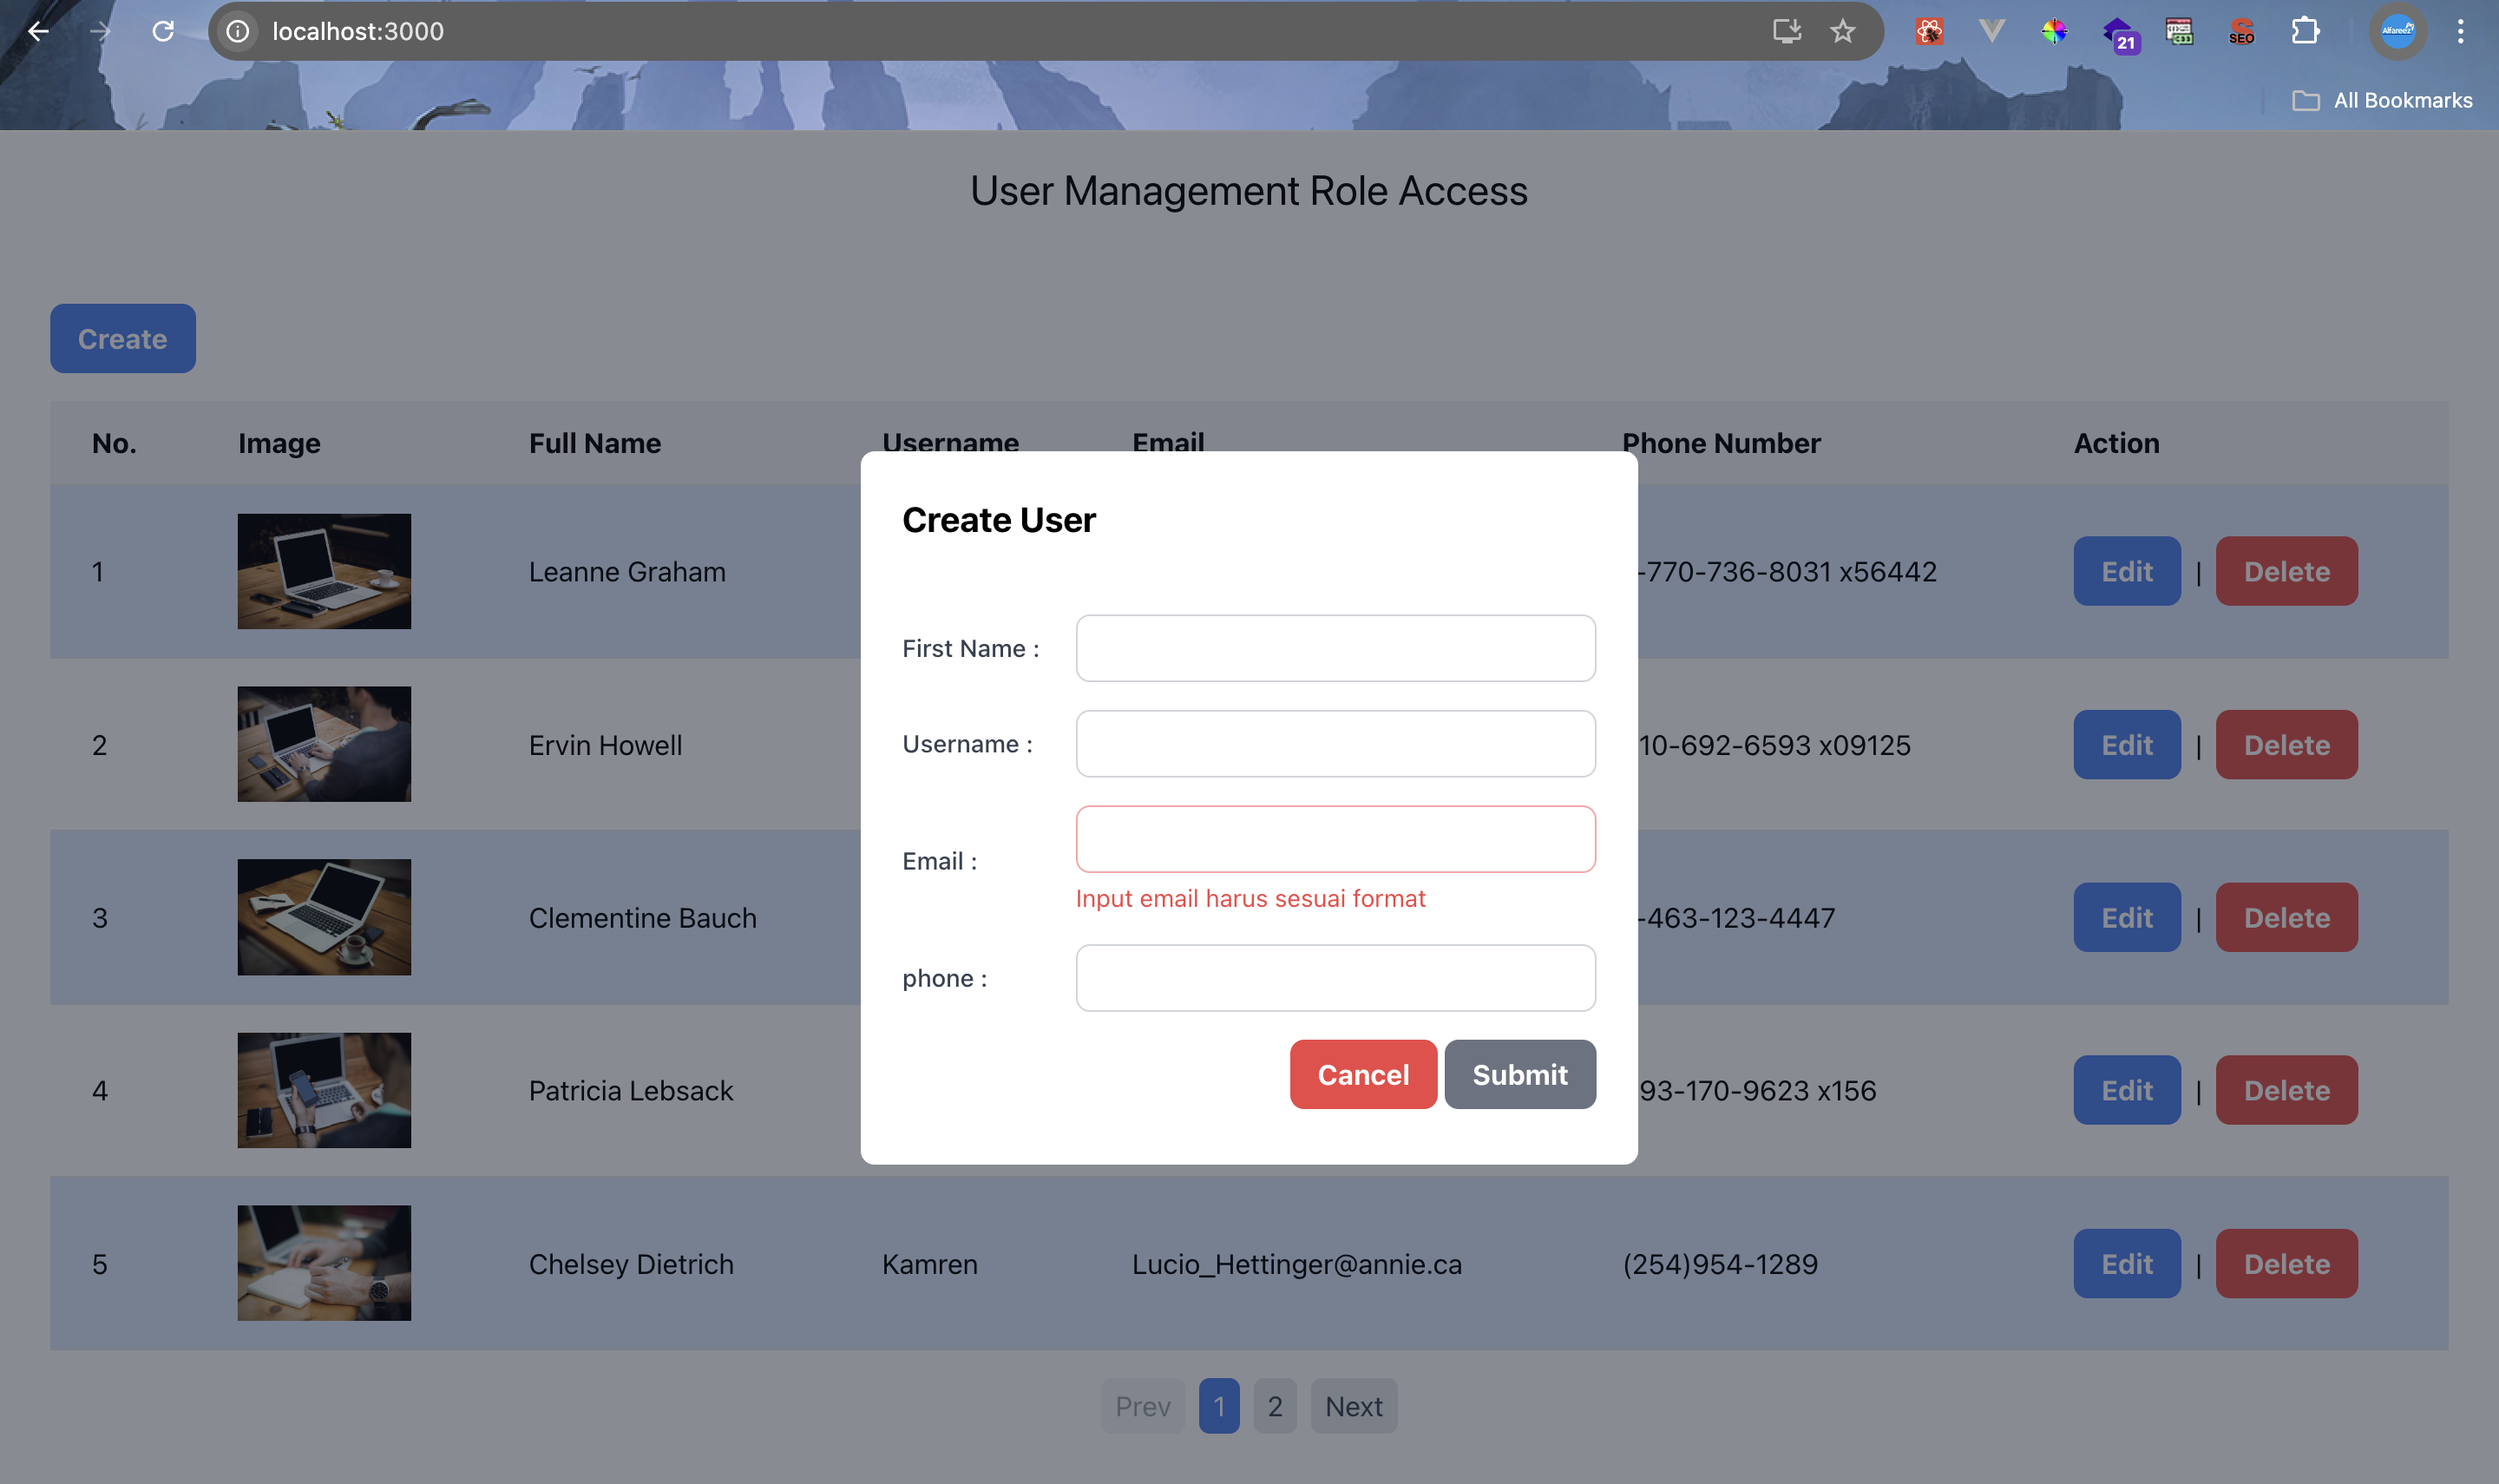
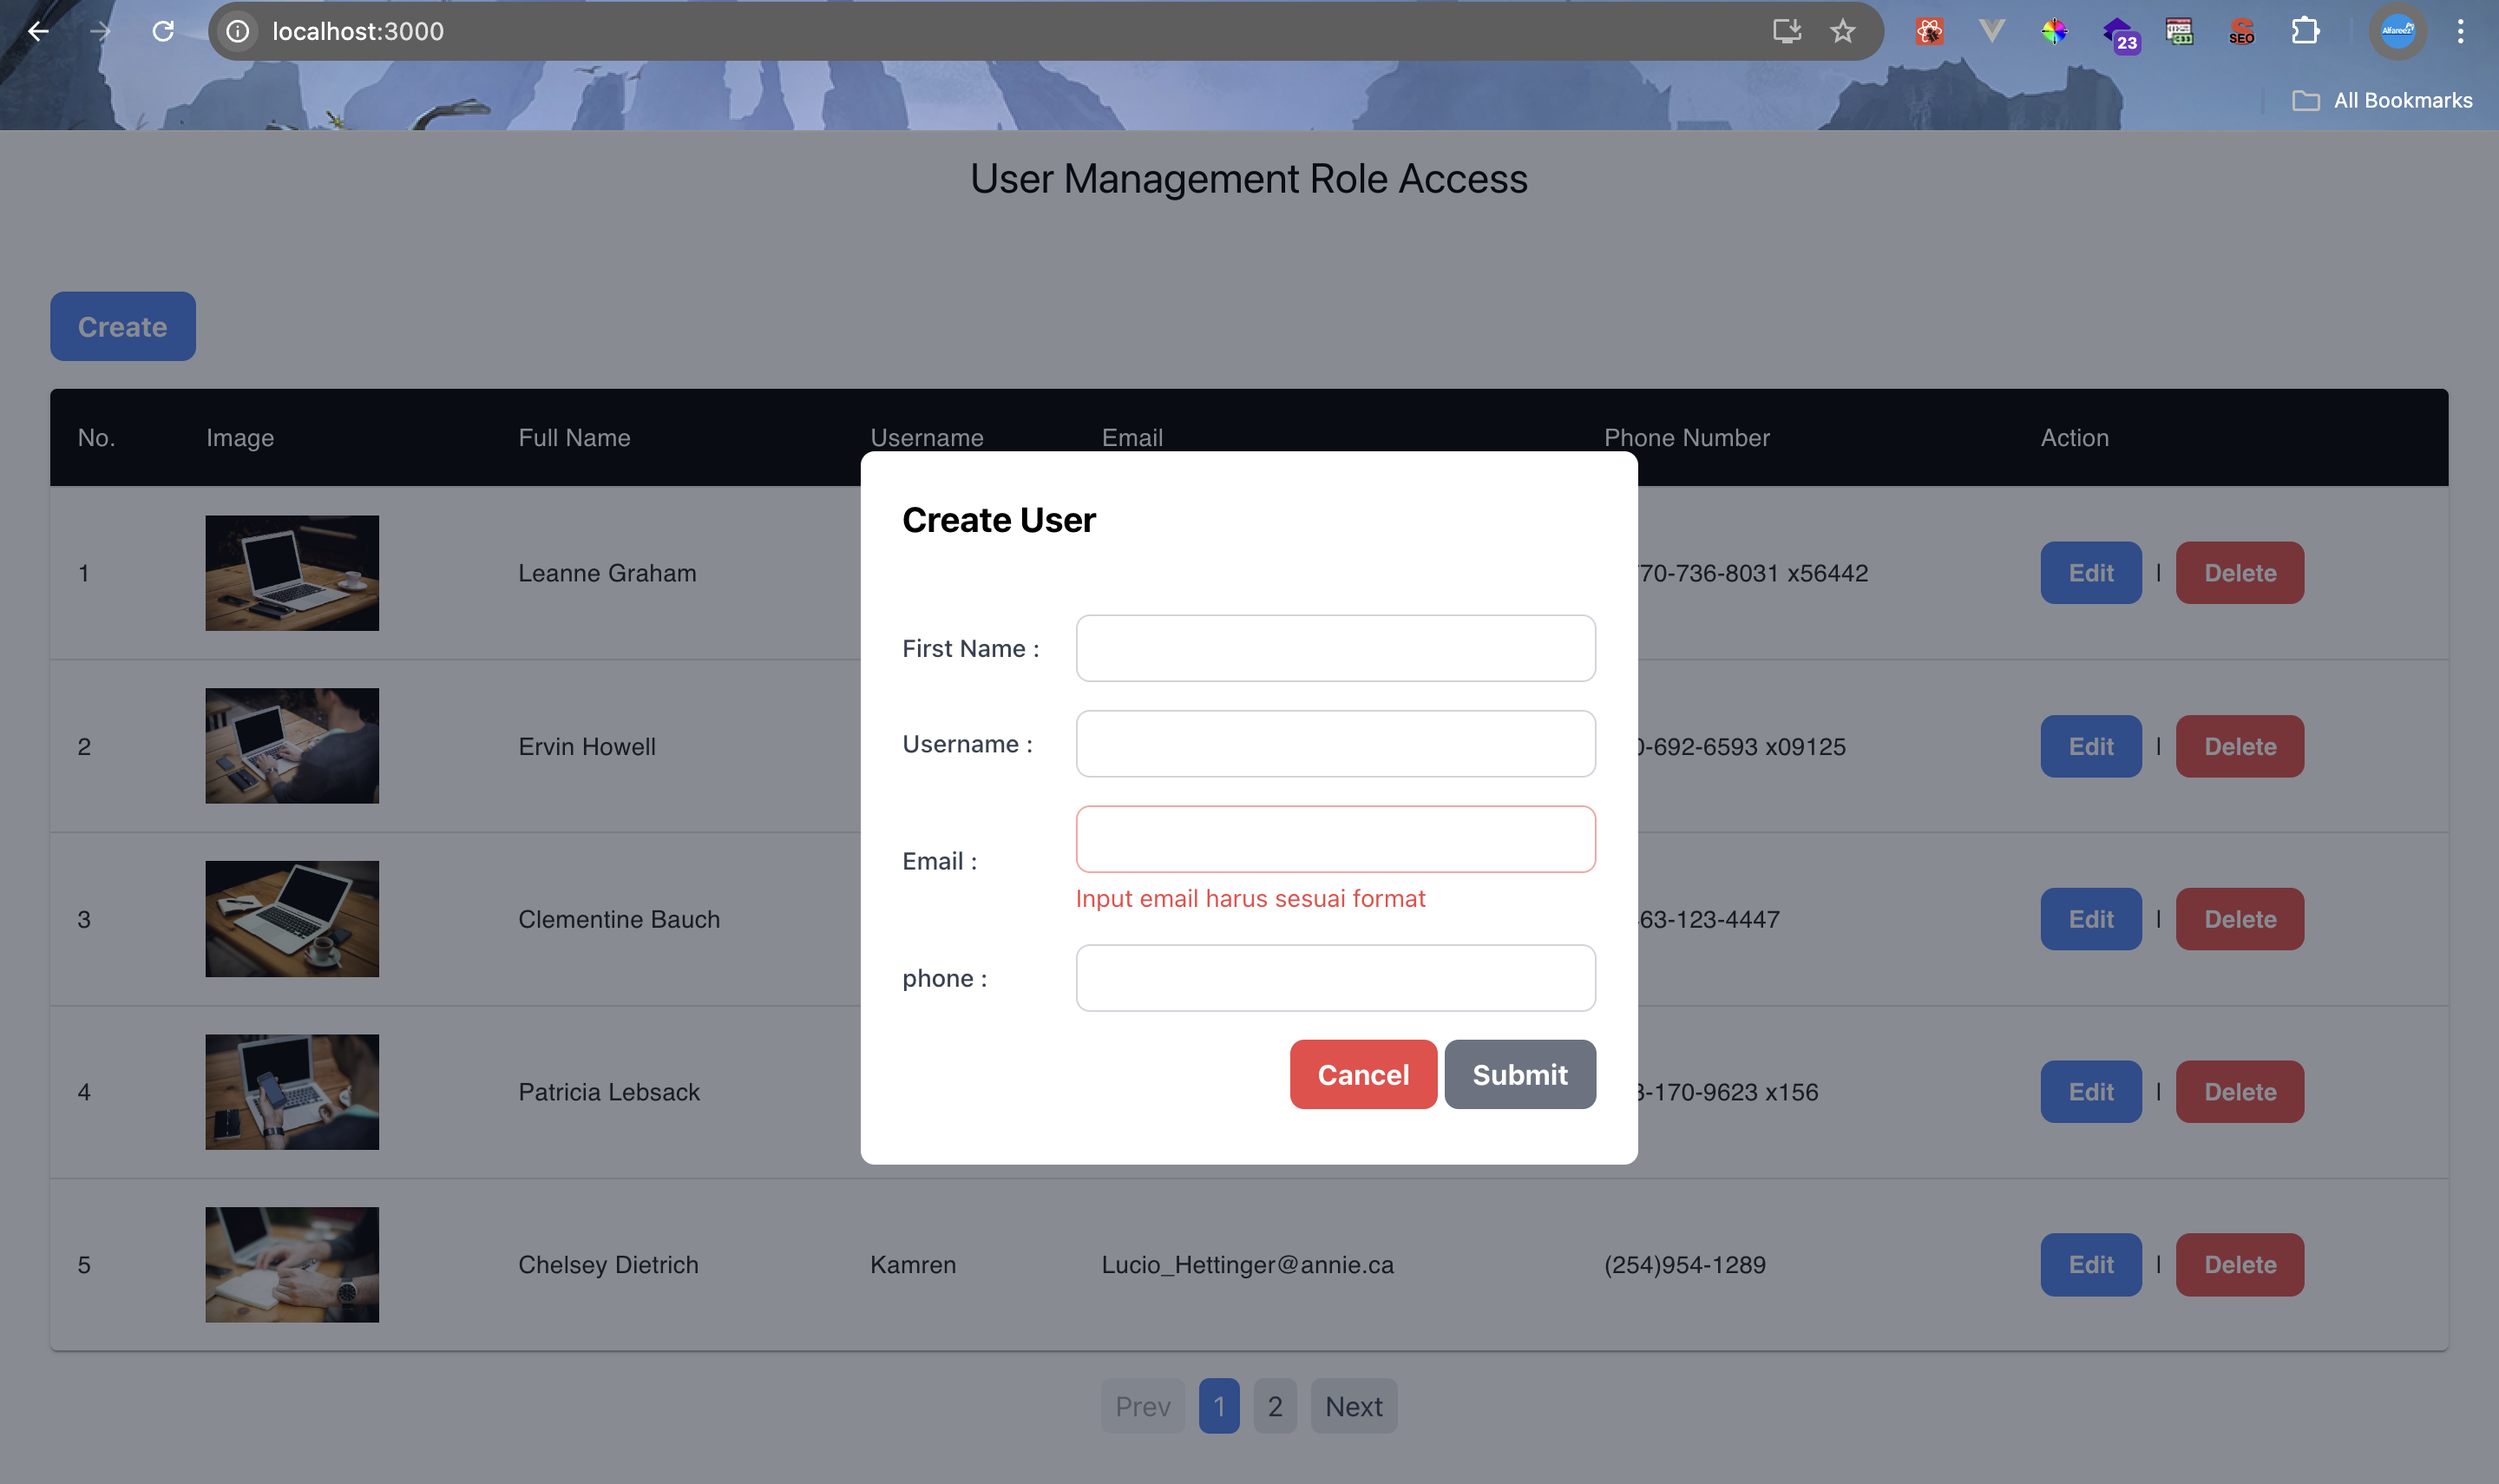
update component

diff --git a/src/components/TableMUI.tsx b/src/components/TableMUI.tsx
@@ -1,0 +1,122 @@
+import * as React from "react";
+import { styled } from "@mui/material/styles";
+import Table from "@mui/material/Table";
+import TableBody from "@mui/material/TableBody";
+import TableCell, { tableCellClasses } from "@mui/material/TableCell";
+import TableContainer from "@mui/material/TableContainer";
+import TableHead from "@mui/material/TableHead";
+import TableRow from "@mui/material/TableRow";
+import Paper from "@mui/material/Paper";
+import { User } from "../utils/interface";
+import Button from "./Button";
+
+const StyledTableCell = styled(TableCell)(({ theme }) => ({
+  [`&.${tableCellClasses.head}`]: {
+    backgroundColor: theme.palette.common.black,
+    color: theme.palette.common.white,
+  },
+  [`&.${tableCellClasses.body}`]: {
+    fontSize: 14,
+  },
+}));
+
+const StyledTableRow = styled(TableRow)(() => ({
+  "&:last-child td, &:last-child th": {
+    border: 0,
+  },
+}));
+
+function createData(
+  name: string,
+  calories: number,
+  fat: number,
+  carbs: number,
+  protein: number
+) {
+  return { name, calories, fat, carbs, protein };
+}
+
+const rows = [
+  createData("Frozen yoghurt", 159, 6.0, 24, 4.0),
+  createData("Ice cream sandwich", 237, 9.0, 37, 4.3),
+  createData("Eclair", 262, 16.0, 24, 6.0),
+  createData("Cupcake", 305, 3.7, 67, 4.3),
+  createData("Gingerbread", 356, 16.0, 49, 3.9),
+];
+
+interface TableProps {
+  dataSource: User[];
+  column: Array<string>;
+  mapping: Array<string>;
+  handleEdit: (data: User) => void;
+  handleModalDelete: (data: User) => void;
+}
+
+type UserKey = keyof User;
+
+export default function TableMUI({
+  dataSource,
+  column,
+  mapping,
+  handleEdit,
+  handleModalDelete,
+}: TableProps) {
+  return (
+    <TableContainer component={Paper}>
+      <Table sx={{ minWidth: 700 }} aria-label="customized table">
+        <TableHead>
+          <TableRow>
+            {column.map((item) => (
+              <StyledTableCell>{item}</StyledTableCell>
+            ))}
+          </TableRow>
+        </TableHead>
+        <TableBody>
+          {dataSource.map((row, index) => (
+            <StyledTableRow
+              className="hover:bg-red-100 cursor-pointer"
+              key={row.name}
+            >
+              {mapping.map((map, i) => {
+                const key = map as UserKey;
+
+                return (
+                  <StyledTableCell component="th" scope="row">
+                    {map === "No." ? (
+                      index + 1
+                    ) : map === "image" ? (
+                      <img
+                        src={row.image}
+                        alt={`dummy-${i}`}
+                        width={100}
+                        height={100}
+                      />
+                    ) : map === "action" ? (
+                      <div>
+                        <Button
+                          className="bg-blue-500 hover:bg-blue-700 text-white font-bold py-2 px-4 rounded-lg sm:w-auto mr-2"
+                          label="Edit"
+                          disabled={false}
+                          onClick={() => handleEdit(row)}
+                        />
+                        |
+                        <Button
+                          className="bg-red-500 hover:bg-red-700 text-white font-bold py-2 px-4 rounded-lg sm:w-auto ml-2"
+                          label="Delete"
+                          disabled={false}
+                          onClick={() => handleModalDelete(row)}
+                        />
+                      </div>
+                    ) : (
+                      <div>{row[key]}</div>
+                    )}
+                  </StyledTableCell>
+                );
+              })}
+            </StyledTableRow>
+          ))}
+        </TableBody>
+      </Table>
+    </TableContainer>
+  );
+}

diff --git a/src/pages/component/index.tsx b/src/pages/component/index.tsx
@@ -1,10 +1,10 @@
 import React, { Suspense, lazy } from "react";
 import { header, mapUser } from "../../utils/data";
-import Table from "../../components/Table";
 import Button from "../../components/Button";
 import Pagination from "../../components/Pagination";
 import Empty from "../../components/Empty";
 import { User } from "../../utils/interface";
+import TableMUI from "../../components/TableMUI";
 
 const ModalData = lazy(() => import("./ModalData"));
 const ModalDelete = lazy(() => import("./ModalDelete"));
@@ -75,7 +75,7 @@ export default function ListUser({
       {dataSource?.length === 0 ? (
         <Empty />
       ) : (
-        <Table
+        <TableMUI
           dataSource={dataSource}
           column={header}
           mapping={mapUser}
